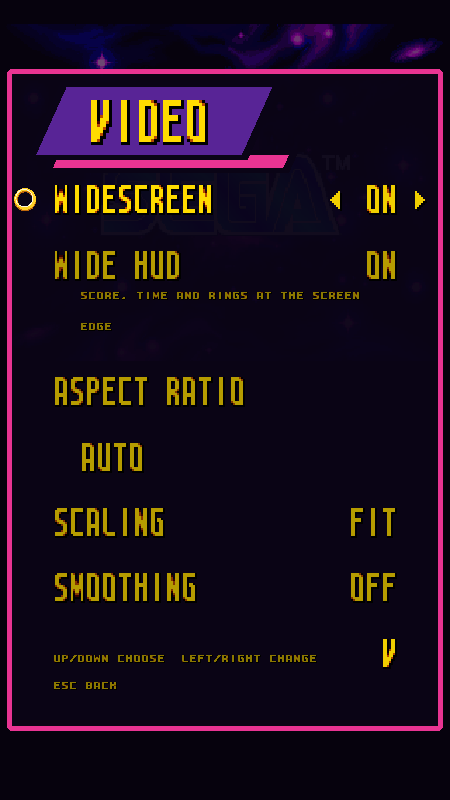
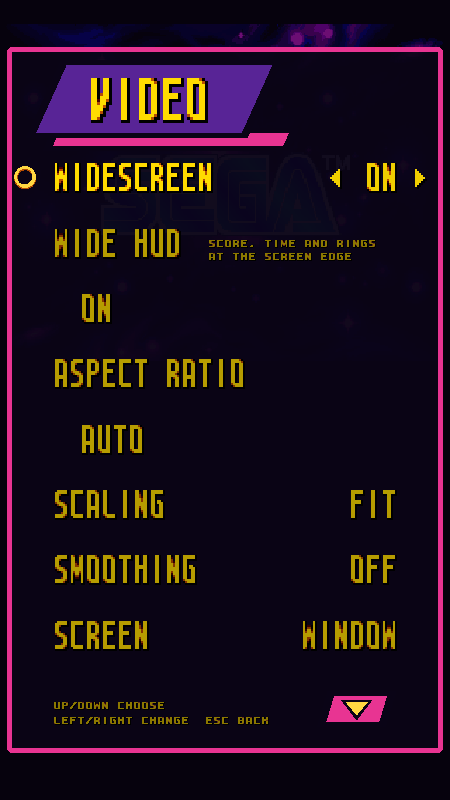
Stack menu notes beside their labels, and mark more rows with an arrow
A note too long for one line beside its label now takes two lines there,
stacked at the game letters' own height, instead of going on lines of its
own below with the pixel face's taller spacing. Only a row too narrow for
that (a phone held upright) still puts it below.

The "more rows" markers on the options and showcase pages were the letters
^ and v, and the v read as text. They are now a gold arrowhead on a small
magenta banner, as on the awards' pages.

The game font gains [ and ], so the CHEATS page's [Cheats] note no longer
falls back to the pixel face in the middle of a wrapped note.

diff --git a/src/platform/menu.cpp b/src/platform/menu.cpp
@@ -2242,26 +2242,55 @@ void Menu::draw_options(ui::Ui& g) {
     // - gets a line of its own rather than running into it.
     std::vector<bool> wrapped(items_.size(), false);
     // The notes are captions, so their letters stay well under the labels':
-    // at most half the labels' scale, rounded up. A note too long to sit
-    // beside its label goes on lines of its own below it, wrapped at words,
-    // rather than being cut short.
+    // at most half the labels' scale, rounded up, which lets two lines of
+    // them stack in a label's height. A note too long for one line beside its
+    // label takes two there, wrapped at words, the value moving to a line of
+    // its own if that makes the room; only where even that is too narrow (a
+    // phone held upright) does the note go on lines of its own below.
     const int note_scale = std::min(g.small_game_scale(), std::max(1, (g.label_game_scale() + 1) / 2));
     g.cap_small_game_scale(note_scale);
     const float note_gap = g.px(16), note_indent = g.px(16);
-    const float note_line_h = g.line_height(kNoteFont) + g.px(4);
-    std::vector<std::vector<std::string>> note_below(items_.size());
+    const float label_h = g.line_height(ui::Font::Pixel);
+    std::vector<std::vector<std::string>> notes(items_.size());
+    // Lines in the game's letters stack close; a note it cannot draw keeps
+    // the pixel face's taller lines.
+    std::vector<float> note_pitch(items_.size(), 0.0f);
+    std::vector<bool> note_below(items_.size(), false);
+    std::vector<float> note_room(items_.size(), 0.0f), notes_h(items_.size(), 0.0f);
     std::vector<float> row_hs(items_.size(), row_h);
     float rows_h = 0;
     for (size_t i = 0; i < items_.size(); ++i) {
         const Item& it = items_[i];
         const float label_w = g.text_width(ui::Font::Pixel, it.label);
-        const bool note_inline = it.note.empty() || label_w + note_gap + g.text_width(kNoteFont, it.note) <= column;
-        if (!note_inline) note_below[i] = wrap_lines(g, kNoteFont, it.note, column - note_indent, " ");
-        if (it.value) {
-            const float note_w = note_inline && !it.note.empty() ? g.text_width(kNoteFont, it.note) + note_gap : 0.0f;
-            wrapped[i] = label_w + note_w + g.text_width(ui::Font::Pixel, it.value()) + g.px(60) > column;
+        const float value_w = it.value ? g.text_width(ui::Font::Pixel, it.value()) + g.px(60) : 0.0f;
+        note_pitch[i] = g.uses_game_font(kNoteFont, it.note) ? g.letter_height(kNoteFont) + g.px(3)
+                                                             : g.line_height(kNoteFont) + g.px(2);
+        // Whether the note goes beside the label in at most two lines no
+        // wider than room.
+        auto beside = [&](float room) {
+            if (room < g.px(40)) return false;
+            std::vector<std::string> lines = wrap_lines(g, kNoteFont, it.note, room, " ");
+            if (lines.size() > 2) return false;
+            for (const std::string& l : lines)
+                if (g.text_width(kNoteFont, l) > room) return false;
+            notes[i] = std::move(lines);
+            note_room[i] = room;
+            return true;
+        };
+        if (it.note.empty()) {
+            wrapped[i] = it.value && label_w + value_w > column;
+        } else if (beside(column - label_w - note_gap - value_w)) {
+        } else if (it.value && beside(column - label_w - note_gap)) {
+            wrapped[i] = true;
+        } else {
+            notes[i] = wrap_lines(g, kNoteFont, it.note, column - note_indent, " ");
+            note_below[i] = true;
+            note_room[i] = column - note_indent;
+            wrapped[i] = it.value && label_w + value_w > column;
         }
-        row_hs[i] = row_h + float(note_below[i].size()) * note_line_h + (wrapped[i] ? row_h : 0.0f);
+        const float block = float(notes[i].size()) * note_pitch[i];
+        notes_h[i] = note_below[i] ? block : std::max(0.0f, block - label_h);
+        row_hs[i] = row_h + notes_h[i] + (wrapped[i] ? row_h : 0.0f);
         rows_h += row_hs[i];
     }
     g.cap_small_game_scale(0);
@@ -2269,12 +2298,13 @@ void Menu::draw_options(ui::Ui& g) {
     // The hint along the foot: on one line at the largest scale it fits, or
     // else on two, its groups ("Enter rebind") kept whole. Room is left for
     // the marker that says more rows are below.
+    const float marker_w = g.px(48);
     const char* hint = page_ == Page::Keys || page_ == Page::StateKeys
                            ? "Up/Down choose  Enter rebind  Esc back"
                        : page_ == Page::Mods ? "Up/Down choose  Left/Right on/off  Enter details"
                        : page_ == Page::Music ? "Up/Down choose  Enter play  Esc back"
                                              : "Up/Down choose  Left/Right change  Esc back";
-    const float hint_room = column - g.text_width(ui::Font::Pixel, "v") - g.px(12);
+    const float hint_room = column - marker_w - g.px(12);
     int hint_scale = g.small_game_scale();
     for (;; --hint_scale) {
         g.cap_small_game_scale(hint_scale);
@@ -2293,7 +2323,7 @@ void Menu::draw_options(ui::Ui& g) {
             if (fits || hint_scale == 1) break;
         }
     }
-    const float hint_line_h = g.line_height(kHintFont) + g.px(2);
+    const float hint_line_h = g.letter_height(kHintFont) + g.px(4);
     const float hint_h = float(hint_lines.size()) * hint_line_h;
     g.cap_small_game_scale(0);
 
@@ -2350,18 +2380,20 @@ void Menu::draw_options(ui::Ui& g) {
     // follows the selection, with a marker above and below where there is
     // more; a tap on a marker steps the selection that way.
     const float rows_room = g.height() - g.px(28) - g.px(16) - g.px(30) - head_h - info_h - g.px(12) - hint_h;
-    // A row is never taller than that room: a note wrapped to more lines
-    // than it leaves keeps as many as fit, the last one shortened.
+    // A row is never taller than that room: a note wrapped below its label
+    // to more lines than it leaves keeps as many as fit, the last one
+    // shortened.
     for (size_t i = 0; i < items_.size(); ++i) {
-        std::vector<std::string>& lines = note_below[i];
-        if (lines.empty()) continue;
+        std::vector<std::string>& lines = notes[i];
+        if (!note_below[i]) continue;
         const float spare = rows_room - row_h - (wrapped[i] ? row_h : 0.0f);
-        const size_t keep = size_t(std::max(1.0f, std::floor(spare / note_line_h)));
+        const size_t keep = size_t(std::max(1.0f, std::floor(spare / note_pitch[i])));
         if (lines.size() <= keep) continue;
         lines.resize(keep);
         lines.back() += " ...";
         rows_h -= row_hs[i];
-        row_hs[i] = row_h + float(keep) * note_line_h + (wrapped[i] ? row_h : 0.0f);
+        notes_h[i] = float(keep) * note_pitch[i];
+        row_hs[i] = row_h + notes_h[i] + (wrapped[i] ? row_h : 0.0f);
         rows_h += row_hs[i];
     }
     size_t first = 0, last = items_.size();  // the rows drawn: [first, last)
@@ -2397,12 +2429,17 @@ void Menu::draw_options(ui::Ui& g) {
         award_art::heading(g, hx, y - g.px(8), ui::Font::PixelBig, pack_heading,
                            column + (x - hx) - (first > 0 ? g.px(56) : 0.0f));
     }
-    // More rows above the window: a marker at the heading's right.
-    if (first > 0) {
-        const float mw = g.text_width(ui::Font::Pixel, "^");
-        g.text(ui::Font::Pixel, x + column - mw, y, "^", award_art::color::magenta);
-        hits_.push_back({{x + column - g.px(48), y - g.px(4), g.px(56), head_h}, kScrollUp});
-    }
+    // More rows above or below the window: an arrow on a small banner, as on
+    // the awards' pages, at the heading's right and at the hint's.
+    const float marker_edge = std::max(2.0f, std::round(g.px(3)));
+    auto marker = [&](float my, float mh, bool up) {
+        const SDL_FRect m{x + column - marker_w, my, marker_w, mh};
+        award_art::banner(g, m, mh * 0.3f, award_art::color::magenta, award_art::color::ink, marker_edge);
+        award_art::arrowhead(g, m.x + marker_w * 0.5f, m.y + mh * 0.5f, mh * 0.3f, up, award_art::color::gold,
+                             marker_edge);
+        hits_.push_back({{m.x - g.px(4), m.y - g.px(6), m.w + g.px(8), m.h + g.px(12)}, up ? kScrollUp : kScrollDown});
+    };
+    if (first > 0) marker(y, std::min(head_h - g.px(10), g.px(30)), true);
     y += head_h;
 
     if (!info.empty()) {
@@ -2436,28 +2473,23 @@ void Menu::draw_options(ui::Ui& g) {
             // it reads as a caption rather than as a second entry; or, when
             // it does not fit there, on lines of its own just below.
             g.cap_small_game_scale(note_scale);
-            if (note_below[i].empty()) {
-                const float ny = y + (g.line_height(ui::Font::Pixel) - g.line_height(kNoteFont)) * 0.5f;
-                g.text_fit(kNoteFont, x + label_w + note_gap, ny, column - label_w - note_gap, it.note,
-                           ui::theme::text_faint);
-            } else {
-                float ny = y + g.line_height(ui::Font::Pixel) + g.px(2);
-                for (const std::string& line : note_below[i]) {
-                    g.text_fit(kNoteFont, x + note_indent, ny, column - note_indent, line, ui::theme::text_faint);
-                    ny += note_line_h;
-                }
+            const float block = float(notes[i].size()) * note_pitch[i] - g.px(3);
+            float ny = note_below[i] ? y + label_h + g.px(2) : y + std::max(0.0f, (label_h - block) * 0.5f);
+            const float nx = note_below[i] ? x + note_indent : x + label_w + note_gap;
+            for (const std::string& line : notes[i]) {
+                g.text_fit(kNoteFont, nx, ny, note_room[i], line, ui::theme::text_faint);
+                ny += note_pitch[i];
             }
             g.cap_small_game_scale(0);
         }
         const float this_h = row_hs[i];
-        const float notes_h = float(note_below[i].size()) * note_line_h;
         Hit hit{{x - g.px(24), y - g.px(4) - extra * 0.5f, column + g.px(48), this_h}, int(i)};
         if (it.value) {
             const std::string v = it.value();
             const float vw = g.text_width(ui::Font::Pixel, v);
             // Wrapped values sit on the next line, indented, and are shortened
             // if even a whole line cannot hold them.
-            const float vy = wrapped[i] ? y + row_h + notes_h : y;
+            const float vy = wrapped[i] ? y + row_h + notes_h[i] : y;
             const float vx = wrapped[i] ? x + g.px(16) : x + column - vw;
             const float room = wrapped[i] ? column - g.px(46) : column;
             g.text_fit(ui::Font::Pixel, vx, vy, room, v,
@@ -2489,12 +2521,7 @@ void Menu::draw_options(ui::Ui& g) {
         g.text_fit(kHintFont, x, y + g.px(8) + float(l) * hint_line_h, hint_room, hint_lines[l],
                    ui::theme::text_faint);
     g.cap_small_game_scale(0);
-    // More rows below the window: a marker at the hint's right.
-    if (last < items_.size()) {
-        const float mw = g.text_width(ui::Font::Pixel, "v");
-        g.text(ui::Font::Pixel, x + column - mw, y + g.px(2), "v", award_art::color::magenta);
-        hits_.push_back({{x + column - g.px(48), y - g.px(4), g.px(56), hint_h + g.px(20)}, kScrollDown});
-    }
+    if (last < items_.size()) marker(y + g.px(6), std::max(hint_h, g.px(22)), false);
 }
 
 // Issue #102: the keyboards of the game's own SOUND TEST, beside MUSIC
@@ -3261,13 +3288,13 @@ void Menu::draw_showcase(ui::Ui& g) {
         if (sc_scroll_[c] > 0.5f) {
             const SDL_FRect m{v.x + v.w - mw, v.y, mw, lh_p + g.px(10)};
             g.rect(m, ui::theme::background.alpha(220), g.px(4));
-            g.text(Font::Pixel, m.x + (mw - g.text_width(Font::Pixel, "^")) * 0.5f, m.y + g.px(5), "^", acc);
+            award_art::arrowhead(g, m.x + mw * 0.5f, m.y + m.h * 0.5f, m.h * 0.3f, true, acc, std::max(2.0f, std::round(g.px(3))));
             hits_.insert(hits_.begin() + std::ptrdiff_t(first_hit), Hit{m, kScrollUp});
         }
         if (most - sc_scroll_[c] > 0.5f) {
             const SDL_FRect m{v.x + v.w - mw, v.y + v.h - lh_p - g.px(10), mw, lh_p + g.px(10)};
             g.rect(m, ui::theme::background.alpha(220), g.px(4));
-            g.text(Font::Pixel, m.x + (mw - g.text_width(Font::Pixel, "v")) * 0.5f, m.y + g.px(5), "v", acc);
+            award_art::arrowhead(g, m.x + mw * 0.5f, m.y + m.h * 0.5f, m.h * 0.3f, false, acc, std::max(2.0f, std::round(g.px(3))));
             hits_.insert(hits_.begin() + std::ptrdiff_t(first_hit), Hit{m, kScrollDown});
         }
     }

diff --git a/src/renderer/game_font.cpp b/src/renderer/game_font.cpp
@@ -18,7 +18,7 @@ constexpr int kDigits = 0, kLetters = 10, kQuestion = 36, kExclaim = 37, kDash =
 constexpr int kRomGlyphs = kGameFontTileCount / 2;
 // Made here, after the ROM's glyphs (see game_font_from_tiles).
 constexpr int kColon = kRomGlyphs, kLess = kRomGlyphs + 1, kGreater = kRomGlyphs + 2, kSlash = kRomGlyphs + 3,
-              kGlyphTotal = kRomGlyphs + 4;
+              kOpenBracket = kRomGlyphs + 4, kCloseBracket = kRomGlyphs + 5, kGlyphTotal = kRomGlyphs + 6;
 // The palette entries the letters use: their yellow, and the black of the
 // drop shadow every glyph has.
 constexpr int kLetterInk = 10, kShadowInk = 5;
@@ -188,10 +188,21 @@ bool game_font_from_tiles(const std::vector<uint8_t>& tiles, const std::array<ui
         at(kSlash, x, y) = kLetterInk;
         at(kSlash, x + 1, y) = kLetterInk;
     }
-    for (int y = 15; y >= 0; --y)
-        for (int x = 7; x >= 0; --x)
-            if (at(kSlash, x, y) == kLetterInk && x + 1 < 8 && y + 1 < 16 && at(kSlash, x + 1, y + 1) == 0)
-                at(kSlash, x + 1, y + 1) = kShadowInk;
+    // '[' and ']': a stroke two pixels wide as tall as a capital, with feet
+    // two pixels long at its top and bottom.
+    for (int y = 1; y <= 14; ++y) {
+        at(kOpenBracket, 2, y) = at(kOpenBracket, 3, y) = kLetterInk;
+        at(kCloseBracket, 4, y) = at(kCloseBracket, 5, y) = kLetterInk;
+    }
+    for (int y : {1, 2, 13, 14}) {
+        at(kOpenBracket, 4, y) = at(kOpenBracket, 5, y) = kLetterInk;
+        at(kCloseBracket, 2, y) = at(kCloseBracket, 3, y) = kLetterInk;
+    }
+    for (int g : {kSlash, kOpenBracket, kCloseBracket})
+        for (int y = 15; y >= 0; --y)
+            for (int x = 7; x >= 0; --x)
+                if (at(g, x, y) == kLetterInk && x + 1 < 8 && y + 1 < 16 && at(g, x + 1, y + 1) == 0)
+                    at(g, x + 1, y + 1) = kShadowInk;
     // The small glyphs. A capital fills rows 1-14 with its drop shadow on row
     // 15 (row 0 is the gap above it), so rows 1-14 fold pairwise into seven
     // and the shadow row stays the last. In each pair a letter pixel wins
@@ -225,6 +236,8 @@ bool game_font_from_tiles(const std::vector<uint8_t>& tiles, const std::array<ui
     out.glyph[size_t('<')] = kLess;
     out.glyph[size_t('>')] = kGreater;
     out.glyph[size_t('/')] = kSlash;
+    out.glyph[size_t('[')] = kOpenBracket;
+    out.glyph[size_t(']')] = kCloseBracket;
     return true;
 }
 

diff --git a/tests/test_game_font.cpp b/tests/test_game_font.cpp
@@ -132,8 +132,8 @@ TEST(game_font, atlas_from_tiles_keeps_the_order_and_colours) {
     std::string why;
     const auto palette = grey_palette();
     CHECK(game_font_from_tiles(numbered_tiles(), palette, f, &why));
-    CHECK_EQ(f.glyph_count, 51);  // 47 from the ROM, ':' '<' '>' '/' made from them
-    CHECK_EQ(f.width, 51 * GameFont::kGlyphW);
+    CHECK_EQ(f.glyph_count, 53);  // 47 from the ROM, ':' '<' '>' '/' '[' ']' made from them
+    CHECK_EQ(f.width, 53 * GameFont::kGlyphW);
     CHECK_EQ(f.height, GameFont::kGlyphH + GameFont::kSmallGlyphH);
     CHECK_EQ(f.glyph_for('0'), 0);
     CHECK_EQ(f.glyph_for('9'), 9);
@@ -142,6 +142,8 @@ TEST(game_font, atlas_from_tiles_keeps_the_order_and_colours) {
     CHECK_EQ(f.glyph_for('Z'), 35);
     CHECK_EQ(f.glyph_for('?'), 36);
     CHECK_EQ(f.glyph_for('.'), 40);
+    CHECK_EQ(f.glyph_for('['), 51);
+    CHECK_EQ(f.glyph_for(']'), 52);
     CHECK_EQ(f.glyph_for('%'), -1);
     // Glyph g is drawn in palette colour g % 15 + 1, its left column clear,
     // both its tiles (the top one, then the one below).
@@ -207,8 +209,8 @@ TEST(game_font, the_rom_has_the_font) {
     CHECK(rom.load(CHAOTIX_TEST_ROM, &err));
     GameFont f;
     CHECK(build_game_font(rom.data, f, &err));
-    CHECK_EQ(f.glyph_count, 51);
-    CHECK_EQ(f.width, 408);
+    CHECK_EQ(f.glyph_count, 53);
+    CHECK_EQ(f.width, 424);
     CHECK_EQ(f.height, 24);
     // White digits, yellow letters, as the TRAINING screen shows them.
     auto ink = [&f](char c) {

diff --git a/src/renderer/game_font.h b/src/renderer/game_font.h
@@ -59,10 +59,10 @@ constexpr int kGameFontTileCount = 94;  // 47 glyphs of two tiles, top then bott
 
 // Builds the atlas from the 94 decoded tiles and the palette line (16 Mega
 // Drive colour words, entry 0 transparent): the 47 glyphs of the ROM, in its
-// order (0-9, A-Z, ? ! - , . and four more signs), plus ':' '<' '>' '/' made
-// from the ROM's own pixels (the full stop's dot twice; triangles and a
-// stroke in the letters' yellow and shadow colours), which the menu's values,
-// arrows and hints need.
+// order (0-9, A-Z, ? ! - , . and four more signs), plus ':' '<' '>' '/' '['
+// ']' made from the ROM's own pixels (the full stop's dot twice; triangles
+// and strokes in the letters' yellow and shadow colours), which the menu's
+// values, arrows, hints and notes need.
 bool game_font_from_tiles(const std::vector<uint8_t>& tiles, const std::array<uint16_t, 16>& palette, GameFont& out,
                           std::string* why);
 

diff --git a/src/platform/ui.h b/src/platform/ui.h
@@ -130,6 +130,10 @@ public:
     int zoom() const { return zoom_; }
 
     float line_height(Font f) const;
+    // The height of the letters alone: the game's when they are drawn with
+    // its font, without the pixel face's taller line. For lines stacked
+    // close, such as a note's two lines beside its entry.
+    float letter_height(Font f) const;
     float text_width(Font f, const std::string& s);
     // Returns the advance width actually drawn.
     float text(Font f, float x, float y, const std::string& s, Color c);

diff --git a/src/platform/ui.cpp b/src/platform/ui.cpp
@@ -216,6 +216,11 @@ float Ui::line_height(Font f) const {
     return face;
 }
 
+float Ui::letter_height(Font f) const {
+    if (game_font_active() && game_glyphs(f)) return float(game_glyph_h(f) * game_scale(f));
+    return line_height(f);
+}
+
 bool Ui::uses_game_font(Font f, const std::string& s) const {
     if (!game_font_active() || !game_glyphs(f) || s.empty()) return false;
     for (unsigned char c : s)

diff --git a/docs/MENU_ART.md b/docs/MENU_ART.md
@@ -45,10 +45,10 @@ them straight to the VDP data port from $9C4B20 (ROM bank 2).
   (yellow, brown, dark red), the shadow entry 5 (black).
 
 `renderer/game_font.*` decodes it (`nemesis_decode`, `build_game_font`) and
-builds an atlas of 51 glyphs, 408x24: the ROM's 47, plus `:` (the full
+builds an atlas of 53 glyphs, 424x24: the ROM's 47, plus `:` (the full
 stop's dot twice), `<` `>` (triangles in the letters' yellow with the
-shadow) and `/` (a stroke in the same colours), which the menu's values,
-arrows and hints need. Under the full 8x16 glyphs are small 8x8 ones, the
+shadow), `/` and `[` `]` (strokes in the same colours), which the menu's
+values, arrows, hints and notes need. Under the full 8x16 glyphs are small 8x8 ones, the
 same letters with each pair of rows folded into one: a capital fills rows
 1-14 with its shadow on row 15, so rows 1-14 fold into seven, a letter pixel
 winning over the shadow in each pair (strokes one row thick are kept), and
@@ -69,13 +69,19 @@ the foot of a page and the notes beside its entries ("JUMP", "NOT USED BY
 THIS GAME") -- uses the small glyphs, at its size over 8 (they are as tall
 as that face, and square). The notes are captions, so their letters are
 at most half the labels' scale, rounded up (the square letters at the
-labels' own scale looked as large as the labels). Nothing is cut short
-where it can be wrapped: a note too long to sit beside its label goes on
-lines of its own just below it, wrapped at words (only a row that would be
-taller than the screen loses lines, the last one ending "..."); the hint
-along the foot takes the largest scale at which it fits on one line beside
-the "more below" marker, or else two lines, its groups ("Enter rebind")
-kept whole. The notes may be dimmer than the labels (down to about half
+labels' own scale looked as large as the labels), so two lines of them fit
+in a label's height. Nothing is cut short where it can be wrapped: a note
+too long for one line beside its label takes two there, wrapped at words
+and stacked close (the letters' own height apart, not the pixel face's
+taller line), its value moving to a line of its own if that makes the room;
+only where even that is too narrow (a phone held upright) does the note go
+on lines of its own just below the label (and a row that would be taller
+than the screen loses lines, the last one ending "..."). The hint along the
+foot takes the largest scale at which it fits on one line beside the "more
+below" marker, or else two lines, its groups ("Enter rebind") kept whole.
+That marker, and the "more above" one at the heading, is a gold arrowhead on
+a small magenta banner, as on the awards' pages (it was a letter V, which
+read as text). The notes may be dimmer than the labels (down to about half
 brightness). Other captions keep the
 small text face; the touch controls and notifications keep the pixel face.
 
